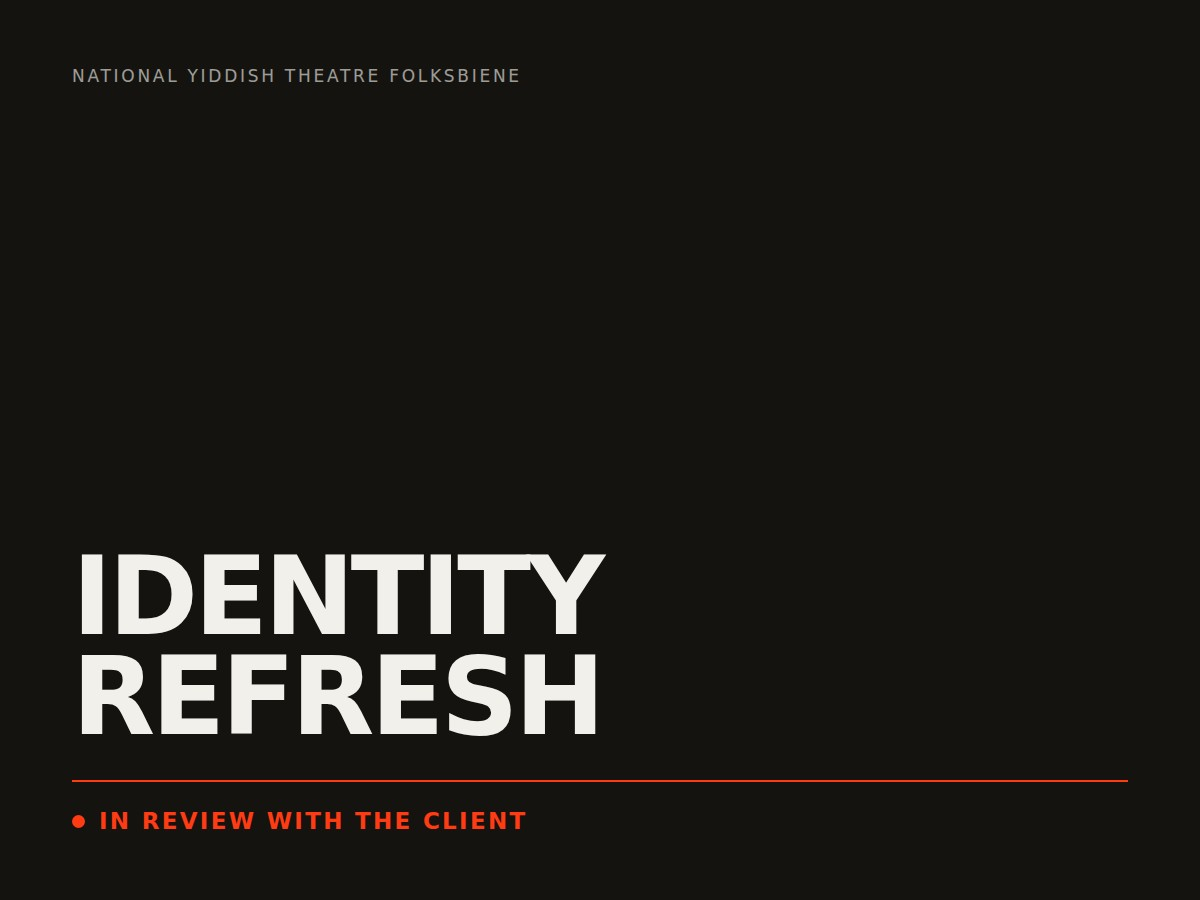
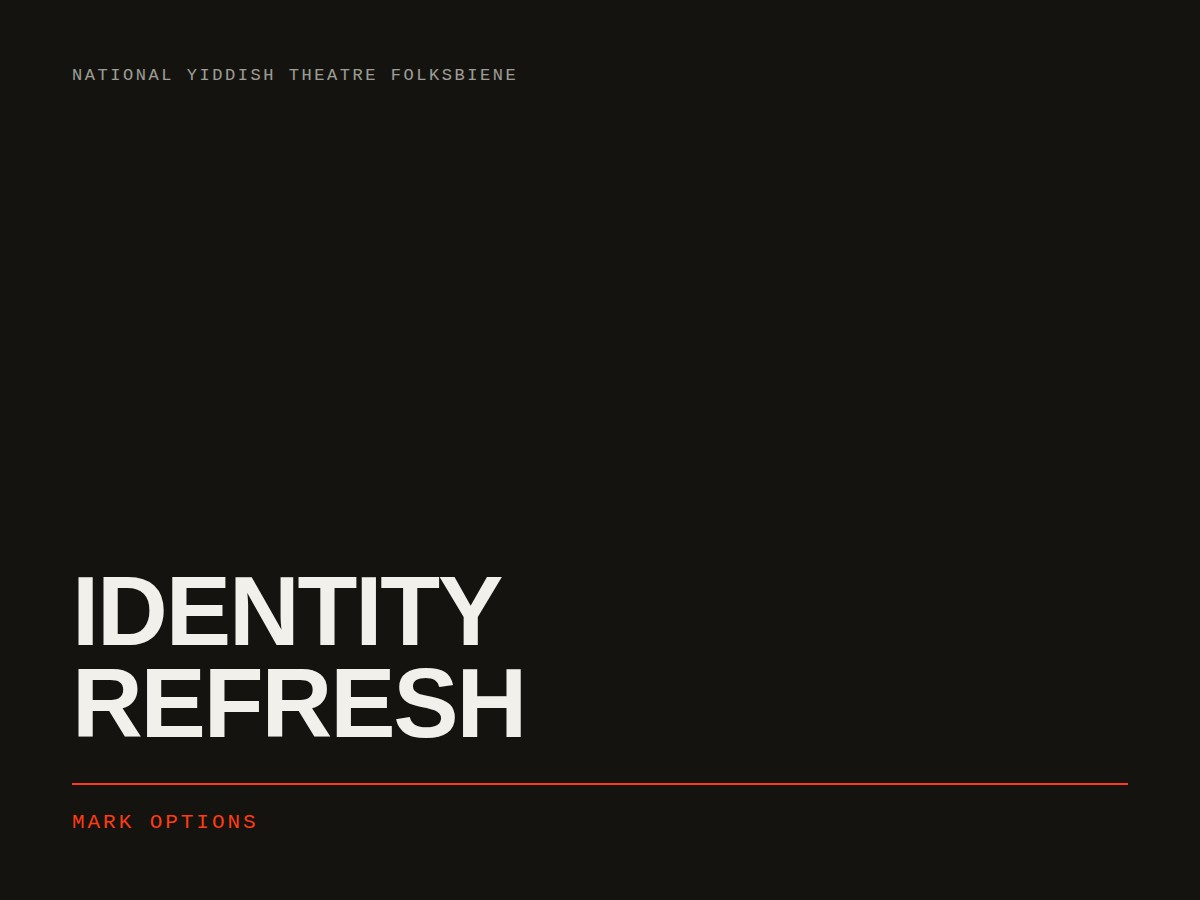
Reframe the Folksbiene identity project around mark options
Drops all 'in review with the client' language: the scope, the card
cover, the work index row, the meta description and the closing
section. The page now runs brief -> problem -> approach -> options,
with the approach describing two families (marquee scale and letterhead
scale) rather than a pending decision.

Adds the project to the home gallery as card 04 and leaves a labelled
slot at assets/nytf/marks.jpg for the artwork.

Claude-Session: https://claude.ai/code/session_01JEuyM9BFofSz7ud4NwGMZi

Changed region(s): [[0.0617, 0.5911, 0.925, 0.8711], [0.0617, 0.9022, 0.4317, 0.9333], [0.0617, 0.0622, 0.4317, 0.0933]]

diff --git a/project-nytf-identity.html b/project-nytf-identity.html
@@ -4,7 +4,7 @@
 <meta charset="utf-8">
 <meta name="viewport" content="width=device-width, initial-scale=1">
 <title>National Yiddish Theatre Folksbiene · Identity Refresh · Nazar Sementsov</title>
-<meta name="description" content="Identity refresh and logo system for the National Yiddish Theatre Folksbiene. In review with the client.">
+<meta name="description" content="Identity refresh for the National Yiddish Theatre Folksbiene. A set of mark options across two families.">
 <meta property="og:title" content="National Yiddish Theatre Folksbiene · Identity Refresh">
 <meta property="og:description" content="One mark for a name that runs five words across two alphabets.">
 <meta property="og:image" content="assets/nytf/identity-cover.jpg">
@@ -40,19 +40,11 @@
 
 <div class="wrap">
 
-  <!-- Stated before anything else: the marks are the client's to release, not mine. -->
-  <div class="held" data-reveal>
-    <p class="held__tag meta"><span class="dot"></span>In review with the client</p>
-    <p class="held__line">The marks are with the Folksbiene while they choose. Nothing
-    from the round is published here.</p>
-    <p class="held__note meta">The full set is shown in person.</p>
-  </div>
-
   <dl class="case-meta" data-reveal>
     <div><dt class="meta">Client</dt><dd>National Yiddish Theatre Folksbiene</dd></div>
     <div><dt class="meta">Year</dt><dd>2026</dd></div>
     <div><dt class="meta">My role</dt><dd>Art Director</dd></div>
-    <div><dt class="meta">Scope</dt><dd>Identity refresh, logo system</dd></div>
+    <div><dt class="meta">Scope</dt><dd>Identity refresh, mark options</dd></div>
   </dl>
 
   <div class="col2">
@@ -78,22 +70,26 @@
   <div class="col2">
     <p class="meta col2__label">The approach</p>
     <div class="prose" data-reveal>
-      <p>Rather than one recommendation, I built the refresh as a set of distinct
-      directions, each taken far enough to be judged where it will live: on a poster, on
-      a ticket, and at the size a phone gives it. The company is choosing between them
-      now.</p>
+      <p>Rather than one recommendation, I drew the refresh as a set of distinct
+      options, each taken far enough to be judged where it will live: on a poster, on a
+      ticket, and at the size a phone gives it. They split into two families, one loud
+      enough for a marquee and one quiet enough for a letterhead.</p>
     </div>
   </div>
 
-  <div class="col2">
-    <p class="meta col2__label">Where it stands</p>
-    <div class="prose" data-reveal>
-      <p>With the client. I don't publish a mark a client hasn't picked, so this page
-      carries the thinking and none of the artwork. The
-      <a class="ul-link" href="project-nytf-season-111.html">season campaign</a> for the
-      same company is published in full.</p>
-    </div>
+  <div class="chapter" data-reveal>
+    <h2>The options</h2><span class="meta">01</span>
   </div>
+  <div class="prose" data-reveal style="margin-bottom:clamp(20px,3vh,36px)">
+    <p>Two families. The first is drawn for scale, for signage and posters and the front
+    of the house. The second is drawn for the program, the letterhead and the seal.</p>
+  </div>
+
+  <figure class="figure" data-reveal>
+    <img width="1600" height="1000" src="assets/nytf/marks.jpg"
+         alt="Identity refresh, mark options" loading="lazy" data-mask>
+    <figcaption class="meta">Mark options for the Folksbiene.</figcaption>
+  </figure>
 
   <div style="padding-block:clamp(48px,9vh,110px)">
     <p class="meta" data-reveal>Next project</p>

diff --git a/index.html b/index.html
@@ -144,10 +144,25 @@
         </div>
       </a>
     </article>
+    <article class="card" data-tags="theatre culture branding identity" data-reveal>
+      <a href="project-nytf-identity.html">
+        <div class="card__media" data-mask>
+          <span class="card__idx">04</span>
+          <img width="1200" height="900" src="assets/nytf/identity-cover.jpg" alt="Identity refresh, mark options" loading="lazy">
+        </div>
+        <div class="card__body">
+          <div class="card__top">
+            <h3 class="card__title">Identity Refresh</h3><span class="meta">2026</span>
+          </div>
+          <p class="card__idea">One mark, five words, two alphabets.</p>
+          <div class="card__tags"><span class="tag">National Yiddish Theatre Folksbiene</span><span class="tag">Identity</span></div>
+        </div>
+      </a>
+    </article>
     <article class="card" data-tags="festival culture identity branding digital" data-reveal>
       <a href="project.html">
         <div class="card__media" data-mask>
-          <span class="card__idx">04</span>
+          <span class="card__idx">05</span>
           <img src="assets/img/work-04.svg" alt="Project Title Here cover" loading="lazy">
         </div>
         <div class="card__body">
@@ -162,7 +177,7 @@
     <article class="card" data-tags="branding social identity" data-reveal>
       <a href="project.html">
         <div class="card__media" data-mask>
-          <span class="card__idx">05</span>
+          <span class="card__idx">06</span>
           <img src="assets/img/work-05.svg" alt="Adult Changing Spaces cover" loading="lazy">
         </div>
         <div class="card__body">
@@ -177,7 +192,7 @@
     <article class="card" data-tags="branding identity" data-reveal>
       <a href="project.html">
         <div class="card__media" data-mask>
-          <span class="card__idx">06</span>
+          <span class="card__idx">07</span>
           <img src="assets/img/work-06.svg" alt="School System Rebrand cover" loading="lazy">
         </div>
         <div class="card__body">

diff --git a/work.html b/work.html
@@ -118,7 +118,7 @@
       <a href="project-nytf-identity.html">
         <div class="card__media" data-mask>
           <span class="card__idx">04</span>
-          <img width="1200" height="900" src="assets/nytf/identity-cover.jpg" alt="Identity refresh, in review with the client" loading="lazy">
+          <img width="1200" height="900" src="assets/nytf/identity-cover.jpg" alt="Identity refresh, mark options" loading="lazy">
         </div>
         <div class="card__body">
           <div class="card__top">
@@ -237,7 +237,7 @@
       <span class="meta">04</span>
       <span class="index-row__title">Identity Refresh</span>
       <span class="meta">National Yiddish Theatre Folksbiene</span>
-      <span class="meta">Identity, In Review</span>
+      <span class="meta">Identity, Mark Options</span>
       <span class="meta">2026</span>
     </a>
     <a class="index-row" href="project.html" data-tags="festival culture identity branding digital" data-preview="assets/img/work-04.svg">
